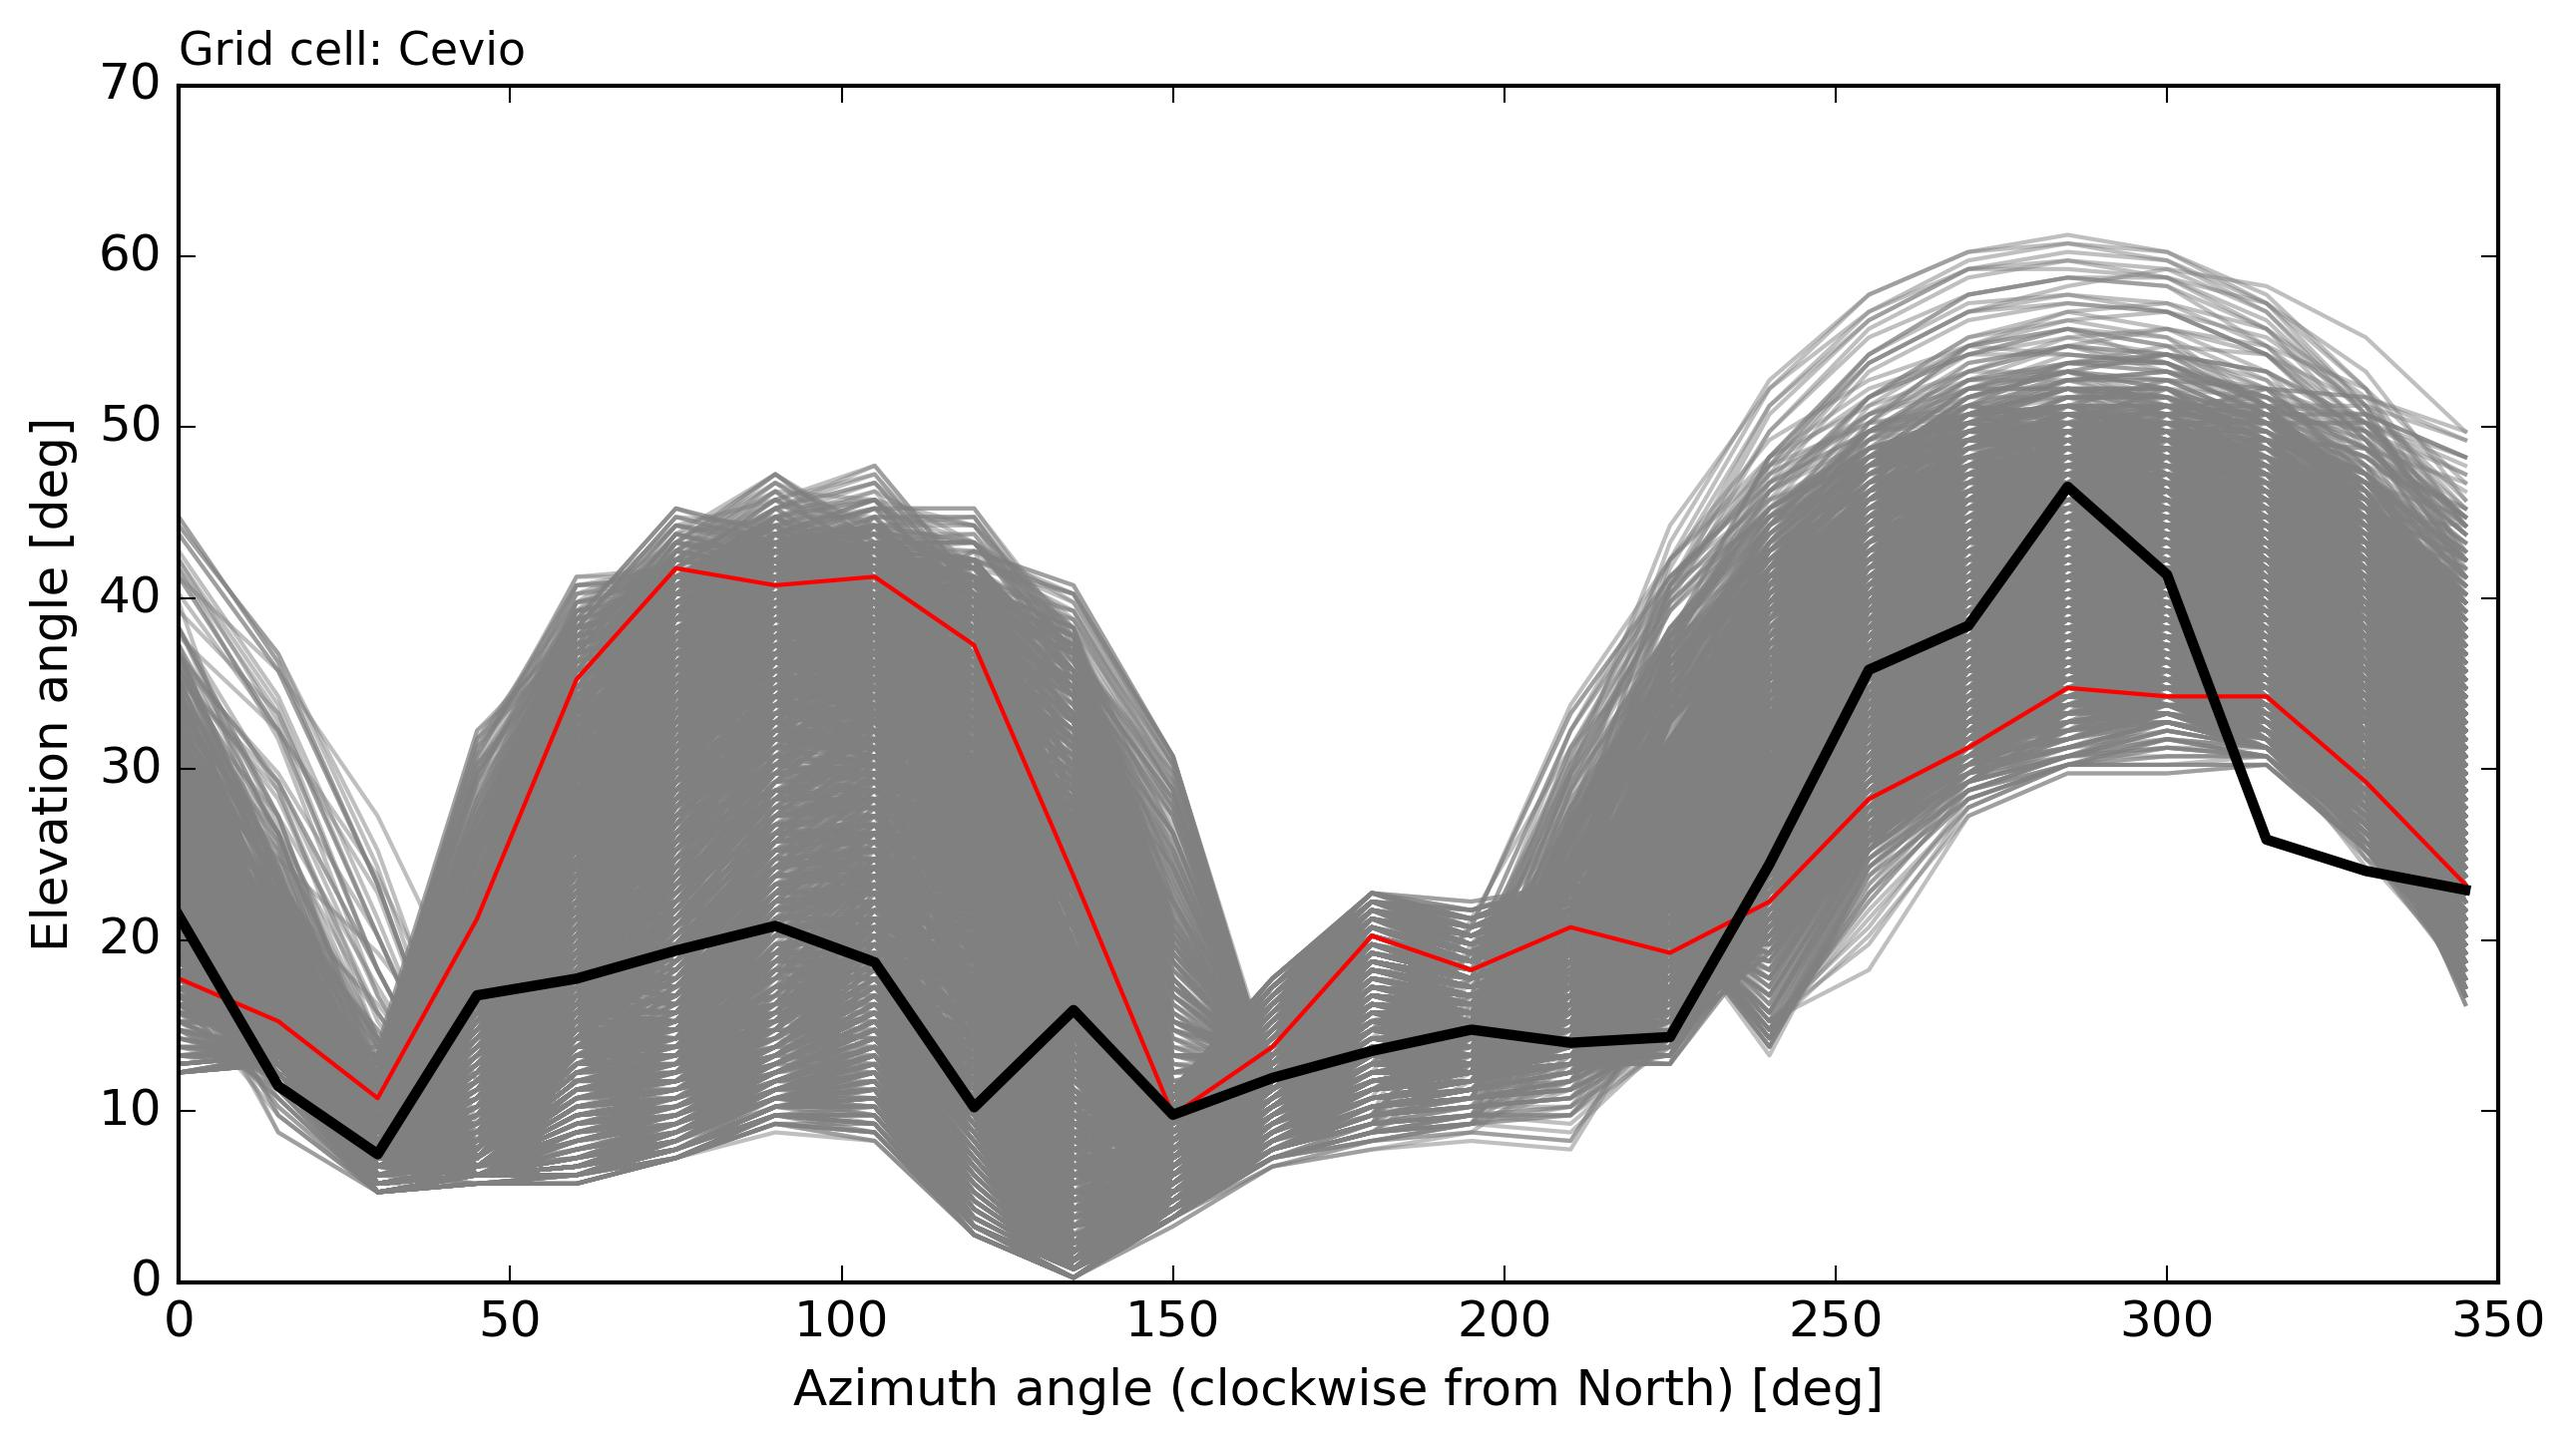
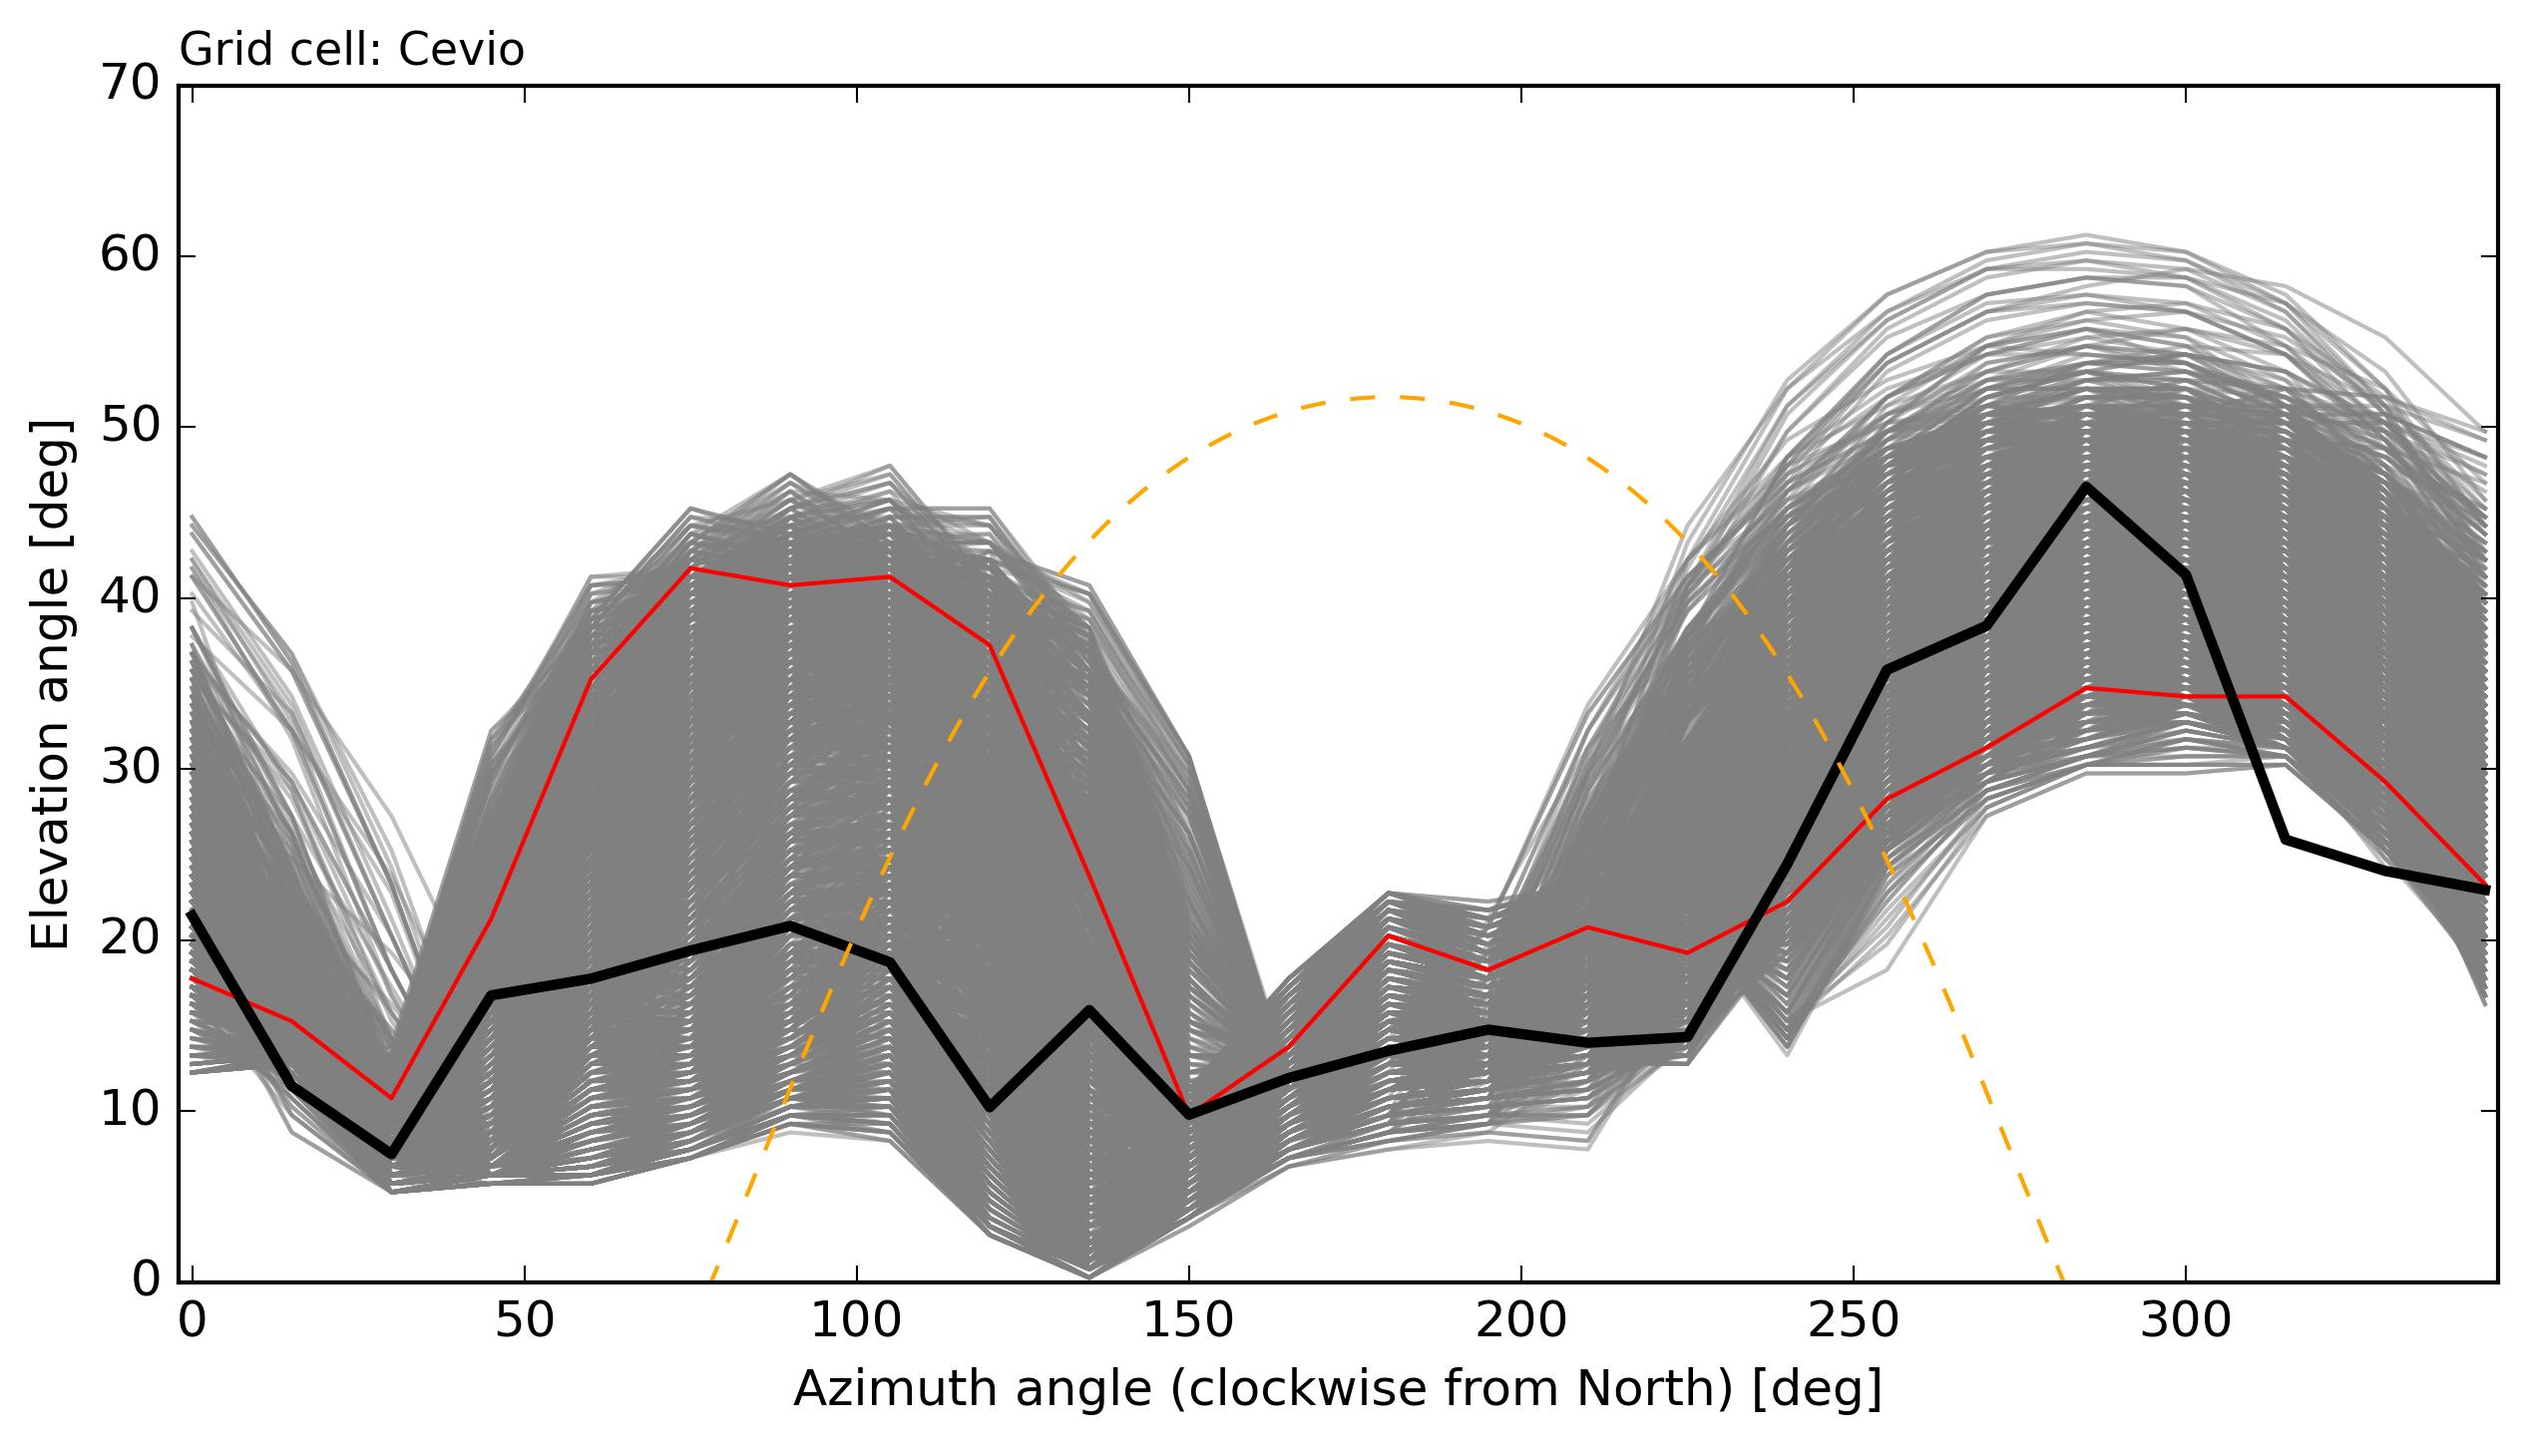
Sun path added to (sub-)grid horizon comparison

diff --git a/4_analyse_horizon_fcor.py b/4_analyse_horizon_fcor.py
@@ -355,6 +355,24 @@ tri_finder = triangles.get_trifinder()
 ind_loc = 3 # (0, 1, 2, 3) (Vicosoprano, Vals, Piotta, Cevio)
 ind_tri = int(tri_finder(*locations[ind_loc][1])) # type: ignore
 
+# Compute sun position for specific day
+planets = load("de421.bsp")
+sun = planets["sun"]
+earth = planets["earth"]
+loc_lon, loc_lat = locations[ind_loc][1]
+loc_obs = earth + wgs84.latlon(loc_lat, loc_lon)
+time_axis_dt = [dt.datetime(2025, 9, 1, 4, tzinfo=dt.timezone.utc)
+                + dt.timedelta(minutes=5 * i) for i in range(170)]
+sun_azim = np.empty(len(time_axis_dt))
+sun_elev = np.empty(len(time_axis_dt))
+ts = load.timescale()
+for ind_i, ta in enumerate(time_axis_dt):
+    t = ts.from_datetime(ta)
+    astrometric = loc_obs.at(t).observe(sun)
+    alt, az, d = astrometric.apparent().altaz()
+    sun_azim[ind_i] = az.degrees
+    sun_elev[ind_i] = alt.degrees
+
 # Plot for location
 plt.figure(figsize=(10, 5))
 for i in range(num_cell_child_per_parent):
@@ -363,9 +381,11 @@ for i in range(num_cell_child_per_parent):
              color="grey", alpha=0.5)
 plt.plot(azim, horizon_child[ind_tri, :], color="red", alpha=1.0, lw=1.0)
 plt.plot(azim, horizon_grid_scale[:, ind_loc], color="black", linewidth=2.5)
+plt.plot(sun_azim, sun_elev, color="orange", ls="--", lw=1.0)
 plt.xlabel("Azimuth angle (clockwise from North) [deg]")
 plt.ylabel("Elevation angle [deg]")
 plt.title(f"Grid cell: {locations[ind_loc][0]}", loc="left", fontsize=11)
+plt.axis((0.0 - 2.0, 345.0 + 2.0, 0.0, 70.0))
 # plt.show()
 plt.savefig(path_plot + f"subgrid_horizon_station_{locations[ind_loc][0]}.jpg",
             dpi=300, bbox_inches="tight")
